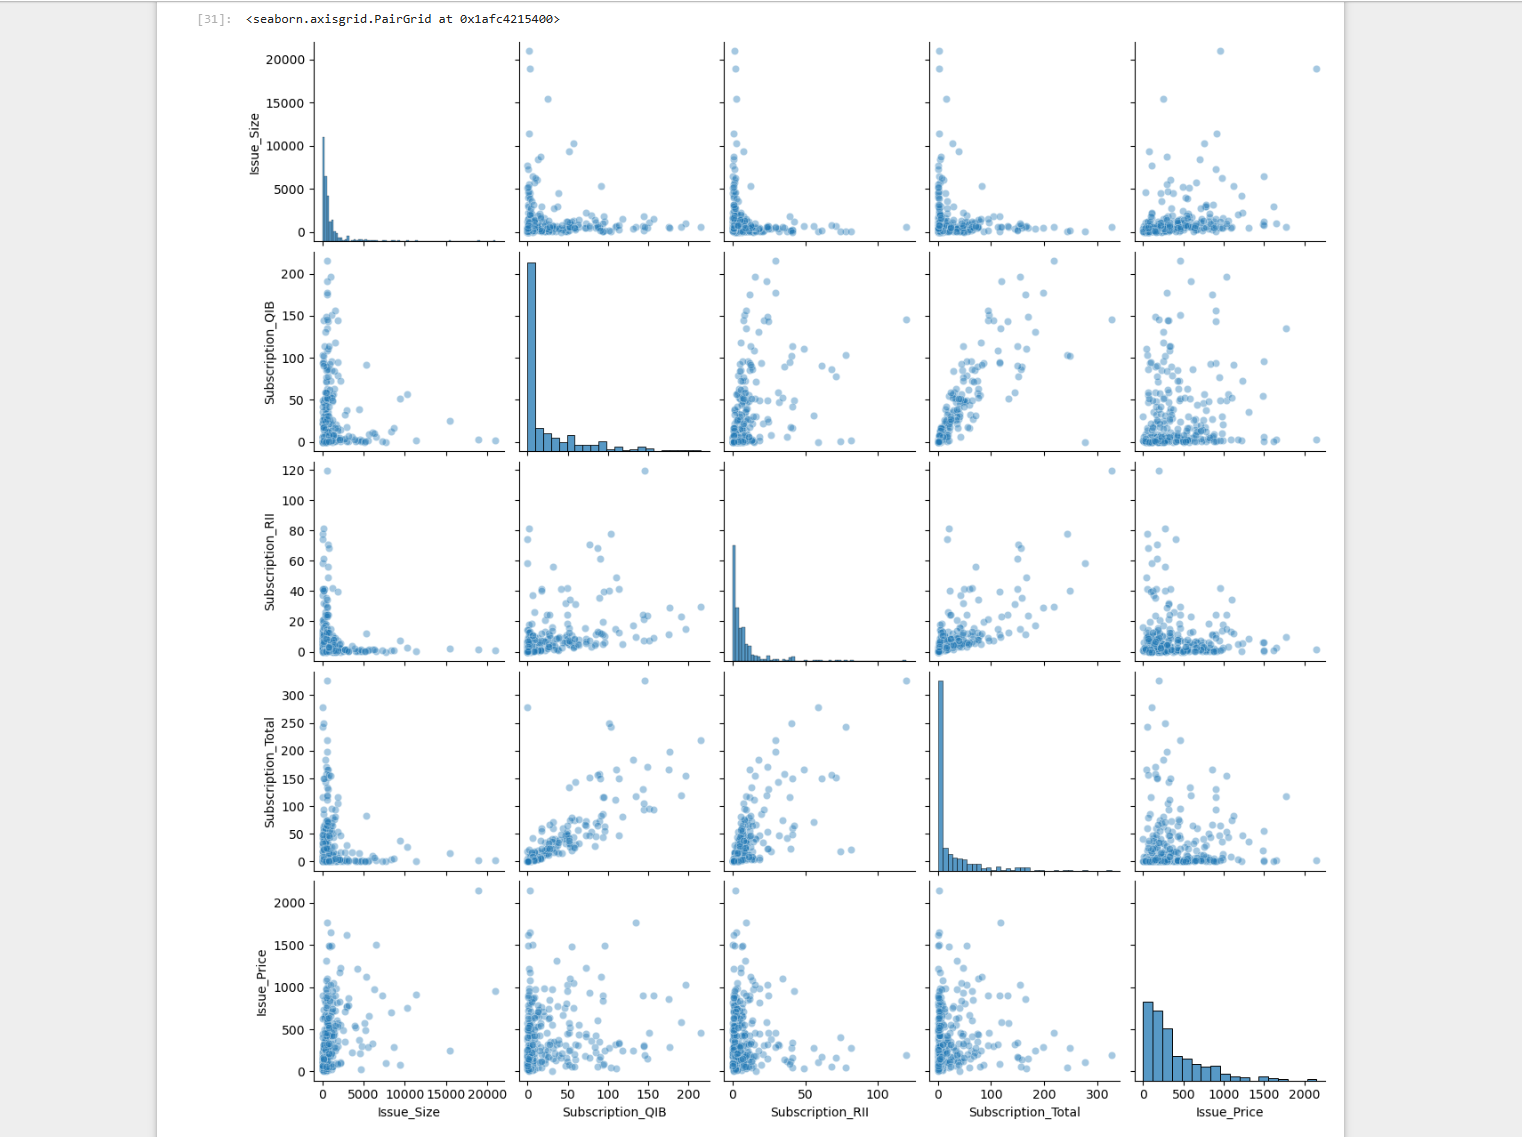
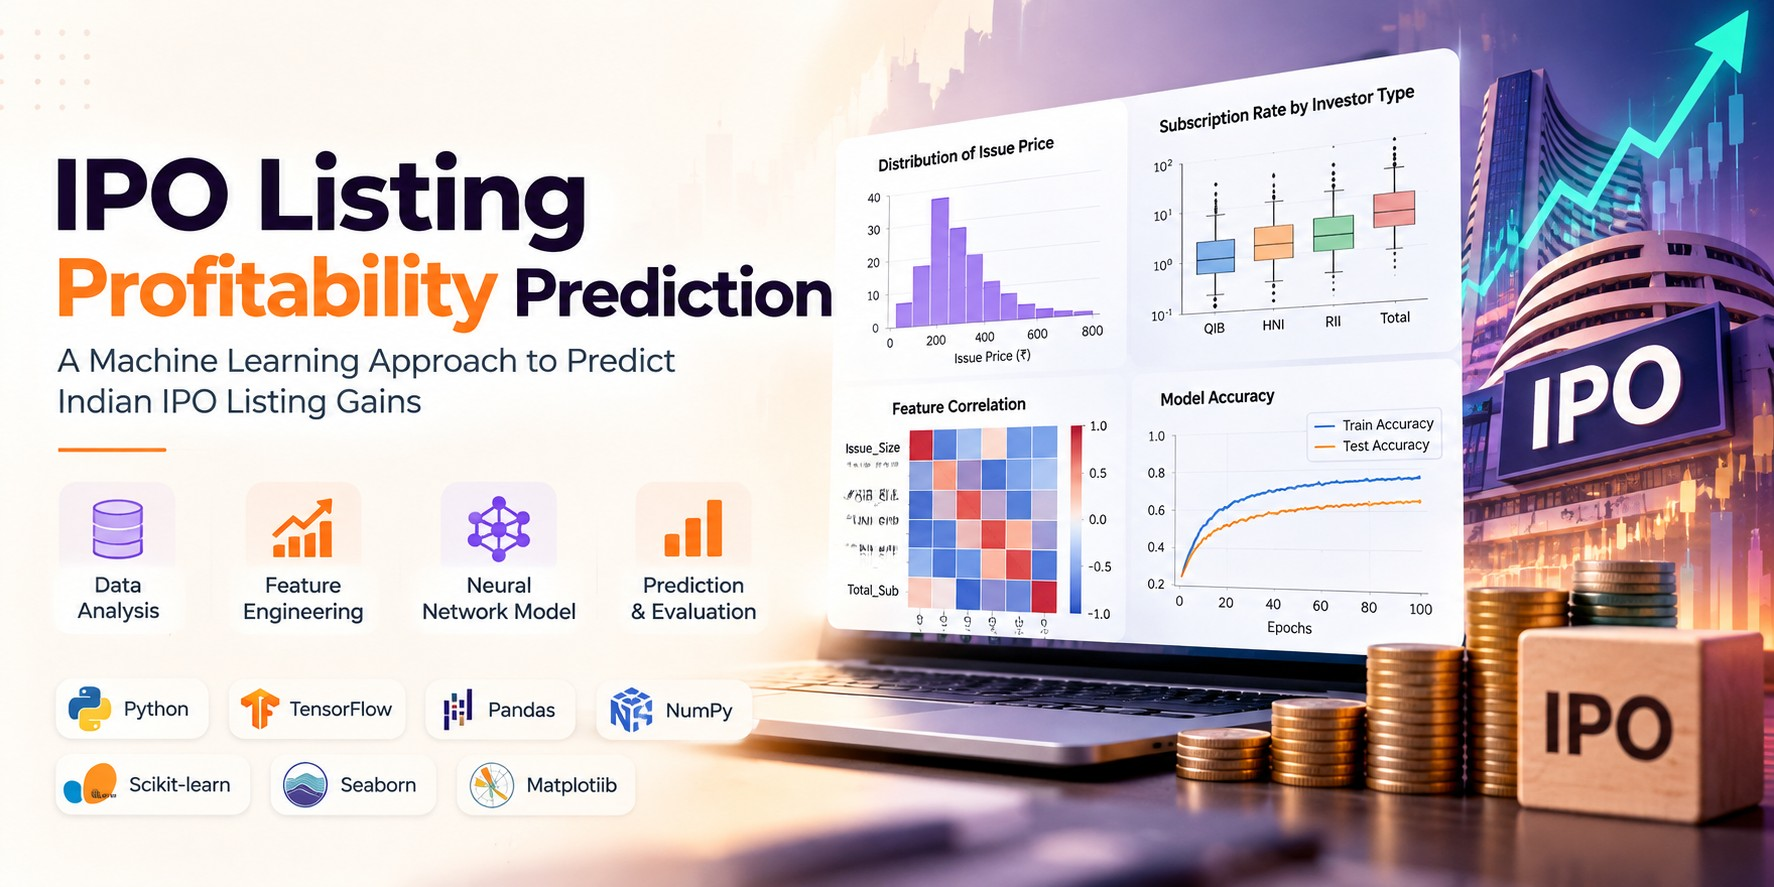
added new projects

diff --git a/src/sections/AllProjects.jsx b/src/sections/AllProjects.jsx
@@ -1,0 +1,167 @@
+import { ArrowUpRight } from "lucide-react";
+import { FaGithub } from "react-icons/fa";
+import { AnimatedBorderButton } from "@/components/AnimatedBorderButton";
+import { Link } from "react-router-dom";
+
+const projects = [
+  {
+    title: "AssignmentService",
+    description:
+      "Full-stack assignment management platform with role-based dashboards for students, faculty, and administrators. Features include assignment creation/submission, automated handover notifications, grading workflows, and administrative controls for course management.",
+    image: "/projects/project1.png",
+    tags: ["Spring Boot", "React", "PostgreSQL", "REST API", "JWT Authentication"],
+    link: "https://assignmentservice.net", // Example live demo link
+    github: "https://github.com/AshenKavisha/ASSIGNMENTNEW/tree/main",
+  },
+  {
+    title: "IPO Listing Profitability Prediction",
+    description:
+      "A 5-layer feedforward neural network predicting IPO listing profitability on listing day, trained on 318 Indian IPOs from 2015-2023. Achieved 87% accuracy using technical indicators, market sentiment, and macroeconomic features as input variables.",
+    image: "/projects/project2.png",
+    tags: ["TensorFlow", "Keras", "Python", "Scikit-learn", "Pandas"],
+    link: "https://ipo-prediction-demo.streamlit.app", // Example live demo link
+    github: "https://github.com/AshenKavisha/IPO-Prediction-with-TensorFlow-Keras",
+  },
+  {
+    title: "Dog Breed Classifier",
+    description:
+      "CNN-based image classifier distinguishing between 5 dog breeds (Golden Retriever, Labrador, German Shepherd, Poodle, Beagle) with 92% accuracy. Trained on 926 labeled images using transfer learning with MobileNetV2 architecture and data augmentation techniques.",
+    image: "/projects/project3.png",
+    tags: ["TensorFlow", "CNN", "Python", "Keras", "OpenCV"],
+    link: "https://dog-breed-classifier-demo.herokuapp.com", // Example live demo link
+    github: "https://github.com/AshenKavisha/Image-Classification",
+  },
+  {
+    title: "E-Library Mobile App",
+    description:
+      "Cross-platform mobile e-library application for browsing, borrowing, and managing digital book collections. Features include user authentication, book search/filtering, digital checkout/return system, reading progress tracking, and admin dashboard for inventory management.",
+    image: "/projects/project4.png",
+    tags: ["React Native", "Node.js", "MongoDB", "Express", "JWT"],
+    link: "https://expo.dev/@ashenkavisha/e-library", // Example Expo link
+    github: "https://github.com/AshenKavisha/E-LIBRARY-APPLICATION",
+  },
+  {
+    title: "Real-time Chat Application",
+    description:
+      "Full-featured real-time chat application with room-based messaging, user authentication, message persistence, and typing indicators. Built using WebSocket technology for low-latency communication and responsive design for mobile/desktop use.",
+    image: "/projects/project5.png", // Placeholder - would need actual image
+    tags: ["Socket.io", "React", "Node.js", "MongoDB", "Tailwind CSS"],
+    link: "https://chat-app-demo.vercel.app", // Example live demo link
+    github: "https://github.com/AshenKavisha/realtime-chat-app",
+  },
+  {
+    title: "NASA APOD Gallery",
+    description:
+      "Full-stack ASP.NET Core MVC web application that integrates NASA's Astronomy Picture of the Day (APOD) API to fetch and display astronomy images and videos. Features SQL Server database storage using raw ADO.NET, duplicate prevention, parameterized SQL queries, and a responsive Bootstrap gallery.",
+    image: "/projects/project7.png",
+    tags: ["ASP.NET Core", "C#", "SQL Server", "ADO.NET", "NASA API", "Bootstrap"],
+    link: "", // Add live demo URL if deployed
+    github: "https://github.com/AshenKavisha/nasa-apod-gallery",
+  },
+  {
+    title: "CI/CD Pipeline – React + Node.js on AWS",
+    description:
+      "End-to-end automated CI/CD pipeline for a full-stack React, Node.js, and PostgreSQL application deployed on AWS EC2. Integrated GitHub webhooks, Jenkins automation, SonarQube code quality analysis, Docker containerization, Docker Hub image publishing, and SSH-based deployment across three dedicated EC2 instances.",
+    image: "/projects/project6.png",
+    tags: ["AWS EC2", "Jenkins", "Docker", "SonarQube", "GitHub", "PostgreSQL", "React", "Node.js"],
+    link: "",
+    github: "https://github.com/AshenKavisha/CI-CD-pipeline-sample-project",
+  },
+];
+
+export const AllProjects = () => {
+  return (
+    <section id="all-projects" className="py-32 relative overflow-hidden">
+      <div className="absolute top-1/4 right-0 w-96 h-96 bg-primary/5 rounded-full blur-3xl" />
+      <div className="absolute bottom-1/4 left-0 w-64 h-64 bg-highlight/5 rounded-full blur-3xl" />
+      <div className="container mx-auto px-6 relative z-10">
+        <div className="flex mb-16">
+          <div className="flex-shrink-0">
+            <Link to="/" className="text-sm text-muted-foreground hover:text-primary transition-colors">
+              ← Back to Home
+            </Link>
+          </div>
+          <div className="mx-auto text-center flex-1">
+            <span className="text-secondary-foreground text-sm font-medium tracking-wider uppercase animate-fade-in">
+              All Projects
+            </span>
+            <h2 className="text-4xl md:text-5xl font-bold mt-4 mb-6 animate-fade-in animation-delay-100 text-secondary-foreground">
+              Complete Project Portfolio
+            </h2>
+            <p className="text-muted-foreground animate-fade-in animation-delay-200">
+              Browse through all of my projects, from complex web applications to
+              innovative tools that solve real-world problems.
+            </p>
+          </div>
+        </div>
+
+        <div className="grid md:grid-cols-2 gap-8">
+          {projects.map((project, idx) => (
+            <div
+              key={idx}
+              className="group glass rounded-2xl overflow-hidden animate-fade-in md:row-span-1"
+              style={{ animationDelay: `${(idx + 1) * 100}ms` }}
+            >
+              <div className="relative overflow-hidden aspect-video">
+                <img
+                  src={project.image}
+                  alt={project.title}
+                  className="w-full h-full object-cover transition-transform duration-700 group-hover:scale-110"
+                />
+                <div className="absolute inset-0 bg-gradient-to-t from-card via-card/50 to-transparent opacity-60" />
+                <div className="absolute inset-0 flex items-center justify-center gap-4 opacity-0 group-hover:opacity-100 transition-opacity duration-300">
+                  {project.link ? (
+                    <span
+                      className="p-3 rounded-full glass hover:bg-primary hover:text-primary-foreground transition-all"
+                    >
+                      <ArrowUpRight className="w-5 h-5" />
+                    </span>
+                  ) : null}
+                  {project.github ? (
+                    <a
+                      href={project.github}
+                      target="_blank"
+                      rel="noopener noreferrer"
+                      className="p-3 rounded-full glass hover:bg-primary hover:text-primary-foreground transition-all"
+                    >
+                      <FaGithub className="w-5 h-5" />
+                    </a>
+                  ) : null}
+                </div>
+              </div>
+
+              <div className="p-6 space-y-4">
+                <div className="flex items-start justify-between">
+                  <h3 className="text-xl font-semibold group-hover:text-primary transition-colors">
+                    {project.title}
+                  </h3>
+                  <ArrowUpRight className="w-5 h-5 text-muted-foreground group-hover:text-primary group-hover:translate-x-1 group-hover:-translate-y-1 transition-all" />
+                </div>
+                <p className="text-muted-foreground text-sm">{project.description}</p>
+                <div className="flex flex-wrap gap-2">
+                  {project.tags.map((tag, tagIdx) => (
+                    <span
+                      key={tagIdx}
+                      className="px-4 py-1.5 rounded-full bg-surface text-xs font-medium border border-border/50 text-muted-foreground hover:border-primary/50 hover:text-primary transition-all duration-300"
+                    >
+                      {tag}
+                    </span>
+                  ))}
+                </div>
+              </div>
+            </div>
+          ))}
+        </div>
+
+        <div className="text-center mt-12 animate-fade-in animation-delay-500">
+          <a href="https://github.com/AshenKavisha" target="_blank" rel="noopener noreferrer">
+            <AnimatedBorderButton>
+              View GitHub Profile
+              <ArrowUpRight className="w-5 h-5" />
+            </AnimatedBorderButton>
+          </a>
+        </div>
+      </div>
+    </section>
+  );
+};

diff --git a/src/sections/Projects.jsx b/src/sections/Projects.jsx
@@ -48,9 +48,34 @@ const projects = [
     link: "https://chat-app-demo.vercel.app", // Example live demo link
     github: "https://github.com/AshenKavisha/realtime-chat-app", 
   },
+
+{
+  title: "NASA APOD Gallery",
+  description:
+    "Full-stack ASP.NET Core MVC web application that integrates NASA's Astronomy Picture of the Day (APOD) API to fetch and display astronomy images and videos. Features SQL Server database storage using raw ADO.NET, duplicate prevention, parameterized SQL queries, and a responsive Bootstrap gallery.",
+  image: "/projects/project7.png",
+  tags: ["ASP.NET Core", "C#", "SQL Server", "ADO.NET", "NASA API", "Bootstrap"],
+  link: "", // Add live demo URL if deployed
+  github: "https://github.com/AshenKavisha/nasa-apod-gallery",
+},
+
+{
+  title: "CI/CD Pipeline – React + Node.js on AWS",
+  description:
+    "End-to-end automated CI/CD pipeline for a full-stack React, Node.js, and PostgreSQL application deployed on AWS EC2. Integrated GitHub webhooks, Jenkins automation, SonarQube code quality analysis, Docker containerization, Docker Hub image publishing, and SSH-based deployment across three dedicated EC2 instances.",
+  image: "/projects/project6.png",
+  tags: ["AWS EC2", "Jenkins", "Docker", "SonarQube", "GitHub", "PostgreSQL", "React", "Node.js"],
+  link: "", 
+  github: "https://github.com/AshenKavisha/CI-CD-pipeline-sample-project", 
+},
+
+
 ];
 
 export const Projects = () => {
+  // Filter out the chatbot project (Real-time Chat Application) for the home page
+  const filteredProjects = projects.filter(project => project.title !== "Real-time Chat Application");
+
   return (
     <section id="projects" className="py-32 relative overflow-hidden">
       <div className="absolute top-1/4 right-0 w-96 h-96 bg-primary/5 rounded-full blur-3xl" />
@@ -71,7 +96,7 @@ export const Projects = () => {
         </div>
 
         <div className="grid md:grid-cols-2 gap-8">
-          {projects.map((project, idx) => (
+          {filteredProjects.map((project, idx) => (
             <div
               key={idx}
               className="group glass rounded-2xl overflow-hidden animate-fade-in md:row-span-1"
@@ -86,14 +111,11 @@ export const Projects = () => {
                 <div className="absolute inset-0 bg-gradient-to-t from-card via-card/50 to-transparent opacity-60" />
                 <div className="absolute inset-0 flex items-center justify-center gap-4 opacity-0 group-hover:opacity-100 transition-opacity duration-300">
                   {project.link ? (
-                    <a
-                      href={project.link}
-                      target="_blank"
-                      rel="noopener noreferrer"
+                    <span
                       className="p-3 rounded-full glass hover:bg-primary hover:text-primary-foreground transition-all"
                     >
                       <ArrowUpRight className="w-5 h-5" />
-                    </a>
+                    </span>
                   ) : null}
                   {project.github ? (
                     <a
@@ -132,7 +154,7 @@ export const Projects = () => {
         </div>
 
         <div className="text-center mt-12 animate-fade-in animation-delay-500">
-          <a href="https://github.com/AshenKavisha" target="_blank" rel="noopener noreferrer">
+          <a href="/all-projects" >
             <AnimatedBorderButton>
               View All Projects
               <ArrowUpRight className="w-5 h-5" />

diff --git a/src/App.jsx b/src/App.jsx
@@ -2,25 +2,38 @@ import { Navbar } from "@/layout/Navbar";
 import { Hero } from "@/sections/Hero";
 import { About } from "@/sections/About";
 import { Projects } from "@/sections/Projects";
+import { AllProjects } from "@/sections/AllProjects";
 import { Experience } from "@/sections/Experience";
 import { Testimonials } from "@/sections/Testimonials";
 import { Contact } from "@/sections/Contact";
 import { Footer } from "./layout/Footer";
+import { BrowserRouter as Router, Routes, Route } from "react-router-dom";
 
 function App() {
   return (
-    <div className="min-h-screen overflow-x-hidden">
-      <Navbar />
-      <main>
-        <Hero />
-        <About />
-        <Projects />
-        <Experience />
-        <Testimonials />
-        <Contact />
-      </main>
-      <Footer />
-    </div>
+    <Router>
+      <div className="min-h-screen overflow-x-hidden">
+        <Navbar />
+        <main>
+          <Routes>
+            <Route path="/" element={
+              <>
+                <Hero />
+                <About />
+                <Projects />
+                <Experience />
+                <Testimonials />
+                <Contact />
+              </>
+            } />
+            <Route path="/all-projects" element={
+              <AllProjects />
+            } />
+          </Routes>
+        </main>
+        <Footer />
+      </div>
+    </Router>
   );
 }
 

diff --git a/src/layout/Navbar.jsx b/src/layout/Navbar.jsx
@@ -4,7 +4,7 @@ import { useEffect, useState } from "react";
 
 const navLinks = [
   { href: "#about", label: "About" },
-  { href: "#projects", label: "Projects" },
+  { href: "/all-projects", label: "Projects" },
   { href: "#experience", label: "Experience" },
   { href: "#testimonials", label: "Testimonials" },
   { href: "#contact", label: "Contact Me" },
